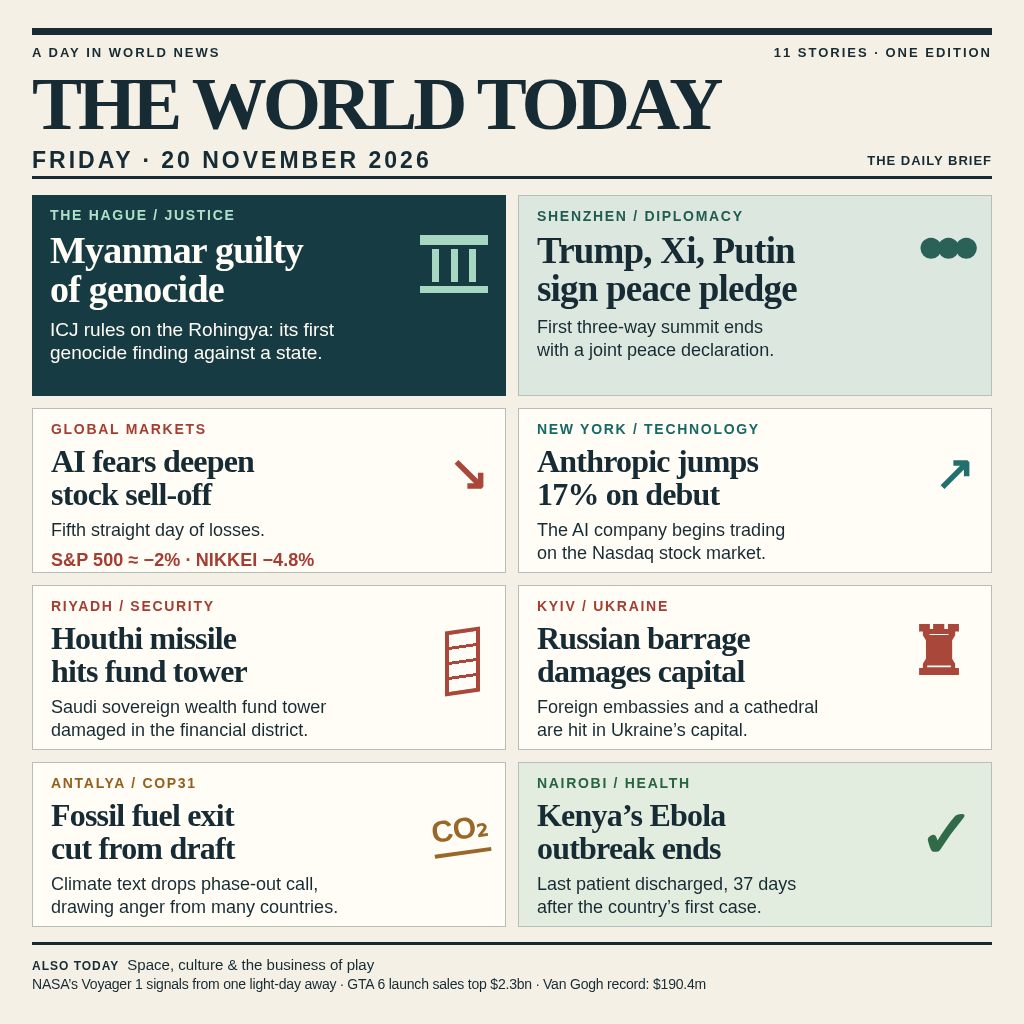
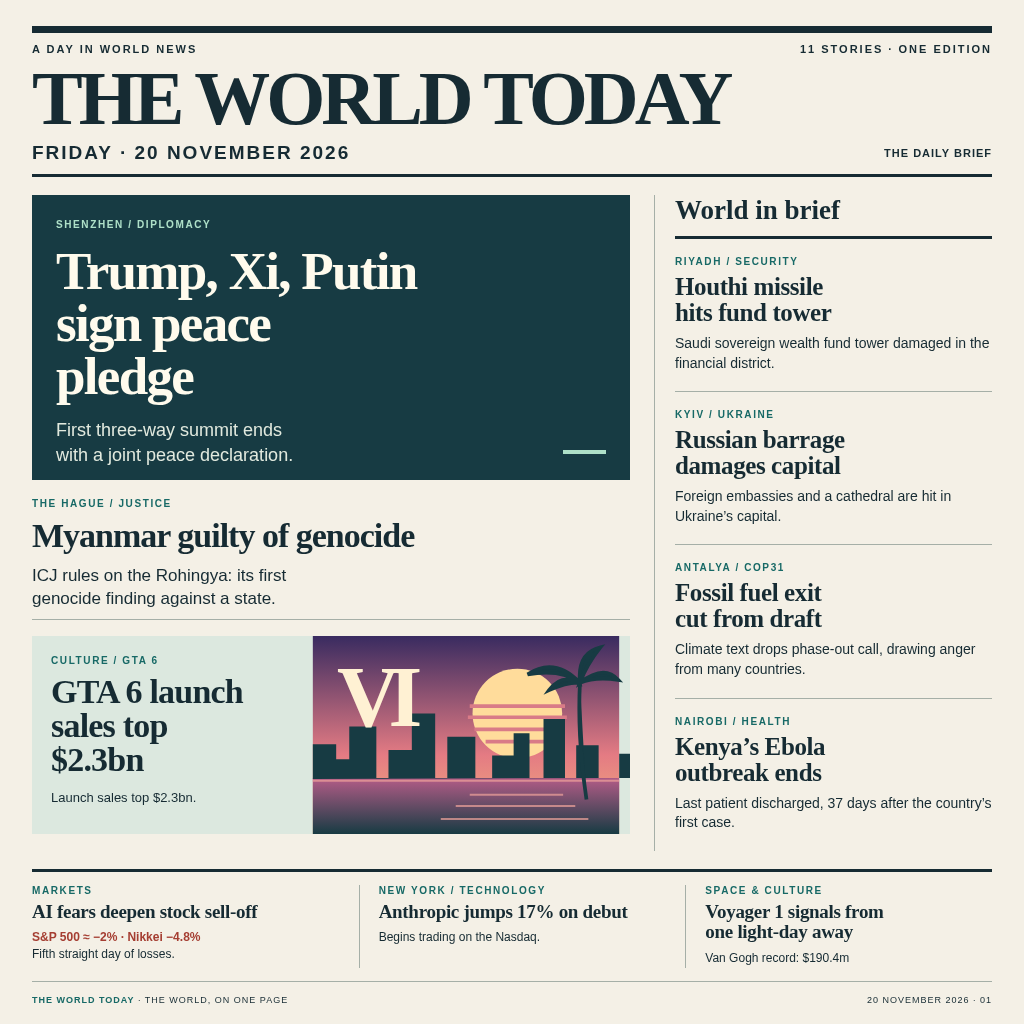
Improved edition: editorial broadsheet layout (local build commit a2b0b00)

diff --git a/frontpage.html b/frontpage.html
@@ -1,24 +1,21 @@
 <!doctype html>
-<html lang="en">
-<meta charset="utf-8">
-<title>The World Today · 20 November 2026</title>
+<html lang="en"><meta charset="utf-8"><title>The World Today · 20 November 2026</title>
 <style>
-*{box-sizing:border-box}html,body{margin:0;width:1024px;height:1024px;overflow:hidden}body{background:#f4f0e6;color:#162b33;font-family:Arial,Helvetica,sans-serif;padding:28px 32px}header{height:151px;border-top:7px solid #162b33;border-bottom:3px solid #162b33;padding-top:10px}.top{display:flex;justify-content:space-between;font-size:13px;font-weight:bold;letter-spacing:2px}.name{font-family:Georgia,serif;font-size:75px;line-height:87px;letter-spacing:-4px;font-weight:bold}.date{font-size:23px;font-weight:800;letter-spacing:3px;display:flex;justify-content:space-between}.date small{font-size:13px;letter-spacing:1px;align-self:center}.grid{display:grid;grid-template-columns:1fr 1fr;grid-template-rows:201px 165px 165px 165px;gap:12px;margin-top:16px}article{position:relative;padding:12px 18px;border:1px solid #b7beb7;background:#fffdf6;overflow:hidden}.label{font-size:14px;letter-spacing:1.7px;font-weight:800;margin-bottom:8px;color:var(--accent,#176966)}h2{font-family:Georgia,serif;font-size:32px;line-height:1.02;margin:0 0 9px;letter-spacing:-.8px;position:relative;z-index:1}p{font-size:18px;line-height:1.24;margin:0;max-width:360px;position:relative;z-index:1}.lead{background:#173b43;color:#fffdf6;border:none;--accent:#aee0c8}.lead h2{font-size:38px;max-width:335px}.lead p{font-size:19px;max-width:360px}.summit{background:#dce8df;--accent:#225b50}.summit h2{font-size:37px;max-width:315px}.summit p{max-width:360px}.motif{position:absolute;right:16px;top:45px;color:var(--accent,#176966);font-size:52px;font-weight:900;line-height:1;opacity:.95}.court{top:40px;right:18px;width:68px;height:58px;border-bottom:7px solid #aee0c8;border-top:10px solid #aee0c8;display:flex;justify-content:space-around;padding:4px 6px}.court i{width:7px;background:#aee0c8}.summit .motif{top:25px;font-size:49px;letter-spacing:-12px;right:22px}.markets{--accent:#a53e32}.markets h2,.ipo h2{max-width:300px}.markets .motif,.ipo .motif{top:40px;font-size:48px}.metrics{font-size:18px;font-weight:bold;margin-top:8px;color:#a53e32;letter-spacing:.1px}.ipo{--accent:#176966}.war{--accent:#a53e32}.war h2{max-width:335px}.war p{max-width:365px}.tower{width:35px;height:65px;border:4px solid #a53e32;transform:skewY(-8deg);right:25px;top:43px;background:repeating-linear-gradient(0deg,transparent 0 12px,#a53e32 12px 15px)}.kyiv .motif{font-family:Georgia,serif;font-size:67px;right:22px;top:32px}.climate{--accent:#94601e}.climate h2{max-width:335px}.climate .motif{font-size:30px;top:51px;border-bottom:4px solid #94601e;padding-bottom:7px;transform:rotate(-8deg)}.health{background:#e2eddf;--accent:#276440}.health h2{max-width:330px}.health .motif{font-size:67px;top:37px}footer{height:59px;margin-top:15px;border-top:3px solid #162b33;padding-top:9px;font-size:15px;line-height:1.4}footer b{letter-spacing:1px;font-size:12px;margin-right:8px}.ticker{white-space:nowrap;font-size:14px;letter-spacing:-.2px}
+/* Fixed-size editorial page. */
+*{box-sizing:border-box}html,body{margin:0;width:1024px;height:1024px;overflow:hidden}body{padding:26px 32px;background:#f4f0e6;color:#162b33;font-family:Arial,Helvetica,sans-serif}header{height:151px}.columns{display:grid;grid-template-columns:598px 338px;gap:24px;margin-top:18px}.lead{height:285px;padding:24px}.secondary{height:140px;padding:18px 0}.culture{height:198px;display:grid;grid-template-columns:270px 328px;margin-top:16px}.culture-copy{padding:19px}.sidebar{padding-left:20px}.markets{height:113px;margin-top:18px;display:grid;grid-template-columns:1fr 1fr 1fr;gap:20px;padding:13px 0}footer{margin-top:13px;display:flex;justify-content:space-between}h1,h2,h3,p{margin:0}.art{width:328px;height:198px}
+
+header{border-top:7px solid #162b33;border-bottom:3px solid #162b33;padding:10px 0}.top{display:flex;justify-content:space-between;font-size:11px;font-weight:700;letter-spacing:2px}.name{font:bold 76px/1.15 Georgia,serif;letter-spacing:-4px}.date{display:flex;justify-content:space-between;font-size:19px;letter-spacing:2px;font-weight:700}.date small{font-size:11px;letter-spacing:1px;align-self:center}.label{font-size:10px;font-weight:700;letter-spacing:1.6px;color:#176966;margin-bottom:9px}h1,h2,h3{font-family:Georgia,serif}p{font-size:16px;line-height:1.35}.lead{background:#173b43;color:#fffbed;position:relative}.lead .label{color:#aee0c8;margin-bottom:15px}.lead h1{font-size:53px;line-height:.99;letter-spacing:-1.7px;margin-bottom:16px}.lead p{font-size:18px;line-height:1.35;color:#e1e9de}.lead:after{content:'';position:absolute;right:24px;bottom:26px;width:43px;height:4px;background:#aee0c8}.secondary{border-bottom:1px solid #a5afa7}.secondary h2{font-size:34px;line-height:1.08;letter-spacing:-1px;margin-bottom:10px}.secondary p{font-size:17px}.culture{background:#dce8df}.culture h2{font-size:34px;line-height:1;letter-spacing:-.8px;margin-bottom:12px}.culture p{font-size:13px}.sidebar{border-left:1px solid #a5afa7}.sidebar>h2{font-size:27px;border-bottom:3px solid #162b33;padding-bottom:10px}.brief{padding:17px 0 18px;border-bottom:1px solid #a5afa7}.brief:last-child{border-bottom:0}.brief .label{margin-bottom:7px}.brief h3{font-size:25px;line-height:1.04;letter-spacing:-.4px;margin-bottom:8px}.brief p{font-size:14px;line-height:1.4}.markets{border-top:3px solid #162b33;border-bottom:1px solid #a5afa7}.markets article+article{border-left:1px solid #a5afa7;padding-left:19px}.markets .label{margin-bottom:6px}.markets h3{font-size:19px;line-height:1.08;margin-bottom:7px;letter-spacing:-.3px}.markets p{font-size:12px;line-height:1.4}.markets strong{color:#a53e32}footer{font-size:9px;letter-spacing:1px}footer b{color:#176966}
 </style>
-<header>
-<div class="top"><span>A DAY IN WORLD NEWS</span><span>11 STORIES · ONE EDITION</span></div>
-<div class="name">THE WORLD TODAY</div>
-<div class="date"><span>FRIDAY · 20 NOVEMBER 2026</span><small>THE DAILY BRIEF</small></div>
-</header>
-<main class="grid">
-<article class="lead"><div class="label">THE HAGUE / JUSTICE</div><div class="motif court"><i></i><i></i><i></i></div><h2>Myanmar guilty<br>of genocide</h2><p>ICJ rules on the Rohingya: its first<br>genocide finding against a state.</p></article>
-<article class="summit"><div class="label">SHENZHEN / DIPLOMACY</div><div class="motif">●●●</div><h2>Trump, Xi, Putin<br>sign peace pledge</h2><p>First three-way summit ends<br>with a joint peace declaration.</p></article>
-<article class="markets"><div class="label">GLOBAL MARKETS</div><div class="motif">↘</div><h2>AI fears deepen<br>stock sell-off</h2><p>Fifth straight day of losses.</p><div class="metrics">S&amp;P 500 ≈ −2% · NIKKEI −4.8%</div></article>
-<article class="ipo"><div class="label">NEW YORK / TECHNOLOGY</div><div class="motif">↗</div><h2>Anthropic jumps<br>17% on debut</h2><p>The AI company begins trading<br>on the Nasdaq stock market.</p></article>
-<article class="war"><div class="label">RIYADH / SECURITY</div><div class="motif tower"></div><h2>Houthi missile<br>hits fund tower</h2><p>Saudi sovereign wealth fund tower<br>damaged in the financial district.</p></article>
-<article class="war kyiv"><div class="label">KYIV / UKRAINE</div><div class="motif">♜</div><h2>Russian barrage<br>damages capital</h2><p>Foreign embassies and a cathedral<br>are hit in Ukraine’s capital.</p></article>
-<article class="climate"><div class="label">ANTALYA / COP31</div><div class="motif">CO₂</div><h2>Fossil fuel exit<br>cut from draft</h2><p>Climate text drops phase-out call,<br>drawing anger from many countries.</p></article>
-<article class="health"><div class="label">NAIROBI / HEALTH</div><div class="motif">✓</div><h2>Kenya’s Ebola<br>outbreak ends</h2><p>Last patient discharged, 37 days<br>after the country’s first case.</p></article>
-</main>
-<footer><b>ALSO TODAY</b><span>Space, culture &amp; the business of play</span><div class="ticker">NASA’s Voyager 1 signals from one light-day away · GTA 6 launch sales top $2.3bn · Van Gogh record: $190.4m</div></footer>
-</html>
+<header><div class="top"><span>A DAY IN WORLD NEWS</span><span>11 STORIES · ONE EDITION</span></div><div class="name">THE WORLD TODAY</div><div class="date"><span>FRIDAY · 20 NOVEMBER 2026</span><small>THE DAILY BRIEF</small></div></header>
+<main><div class="columns"><section>
+<article class="lead"><div class="label">SHENZHEN / DIPLOMACY</div><h1>Trump, Xi, Putin<br>sign peace<br>pledge</h1><p>First three-way summit ends<br>with a joint peace declaration.</p></article>
+<article class="secondary"><div class="label">THE HAGUE / JUSTICE</div><h2>Myanmar guilty of genocide</h2><p>ICJ rules on the Rohingya: its first<br>genocide finding against a state.</p></article>
+<article class="culture"><div class="culture-copy"><div class="label">CULTURE / GTA 6</div><h2>GTA 6 launch<br>sales top<br>$2.3bn</h2><p>Launch sales top $2.3bn.</p></div><svg class="art" viewBox="0 0 328 212" role="img" aria-label="Original illustration of a neon sunset over a waterfront skyline"><defs><linearGradient id="sky" x2="0" y2="1"><stop stop-color="#392b60"/><stop offset=".6" stop-color="#e47b83"/><stop offset="1" stop-color="#f4b77c"/></linearGradient><linearGradient id="water" x2="0" y2="1"><stop stop-color="#b35c87"/><stop offset="1" stop-color="#173b43"/></linearGradient></defs><path fill="url(#sky)" d="M0 0h328v212H0z"/><circle cx="219" cy="83" r="48" fill="#ffdc9b"/><path d="M168 75h102m-104 12h106m-99 13h94m-82 13h70" stroke="#d97b87" stroke-width="4"/><path fill="url(#water)" d="M0 152h328v60H0z"/><path fill="#173b43" d="M0 153v-37h25v16h14V97h29v55h13v-30h25V83h25v69h13v-44h30v44h18v-24h23v-24h17v48h15V89h23v63h12v-35h24v35h22v-26h20v26z"/><path d="M0 155h328M168 170h100m-115 12h128m-144 14h158" stroke="#f0a49c" stroke-width="2" opacity=".7"/><text x="26" y="96" fill="#fff1d3" font-family="Georgia,serif" font-weight="bold" font-size="93" letter-spacing="-12">VI</text><path d="M293 175q-10-67-7-125m0 0q-27-28-56-9 37-6 56 9-3-32 22-38-15 19-22 38 26-20 41-3-24-4-41 3-20-10-33 8 20-9 33-8" fill="#173b43" stroke="#173b43" stroke-width="4"/></svg></article>
+</section><aside class="sidebar"><h2>World in brief</h2>
+<article class="brief"><div class="label">RIYADH / SECURITY</div><h3>Houthi missile<br>hits fund tower</h3><p>Saudi sovereign wealth fund tower damaged in the financial district.</p></article>
+<article class="brief"><div class="label">KYIV / UKRAINE</div><h3>Russian barrage<br>damages capital</h3><p>Foreign embassies and a cathedral are hit in Ukraine’s capital.</p></article>
+<article class="brief"><div class="label">ANTALYA / COP31</div><h3>Fossil fuel exit<br>cut from draft</h3><p>Climate text drops phase-out call, drawing anger from many countries.</p></article>
+<article class="brief"><div class="label">NAIROBI / HEALTH</div><h3>Kenya’s Ebola<br>outbreak ends</h3><p>Last patient discharged, 37 days after the country’s first case.</p></article>
+</aside></div>
+<section class="markets"><article><div class="label">MARKETS</div><h3>AI fears deepen stock sell-off</h3><p><strong>S&amp;P 500 ≈ −2% · Nikkei −4.8%</strong><br>Fifth straight day of losses.</p></article><article><div class="label">NEW YORK / TECHNOLOGY</div><h3>Anthropic jumps 17% on debut</h3><p>Begins trading on the Nasdaq.</p></article><article><div class="label">SPACE &amp; CULTURE</div><h3>Voyager 1 signals from<br>one light-day away</h3><p>Van Gogh record: $190.4m</p></article></section></main>
+<footer><span><b>THE WORLD TODAY</b> · THE WORLD, ON ONE PAGE</span><span>20 NOVEMBER 2026 · 01</span></footer></html>
